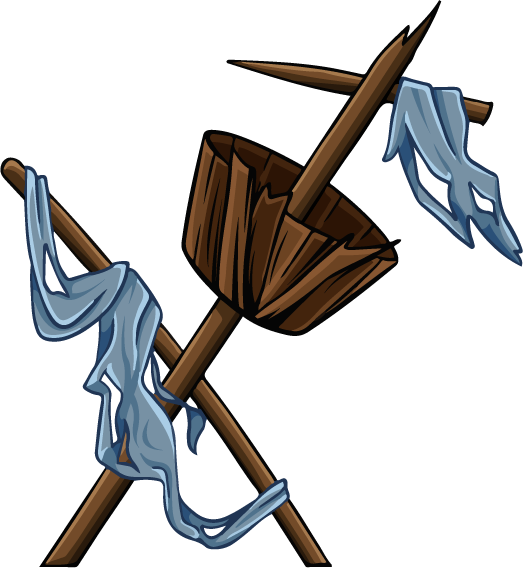
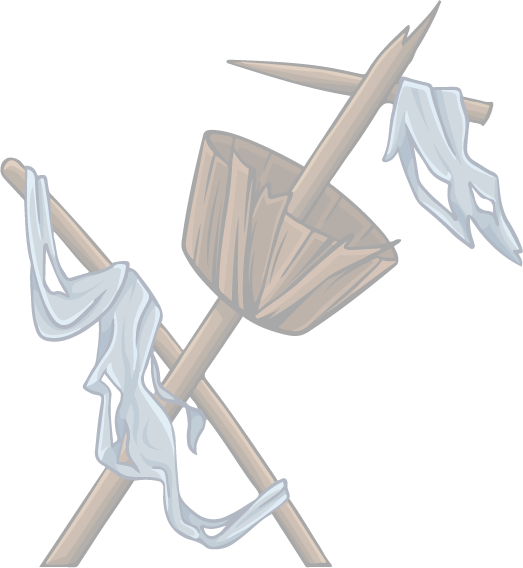
background added

diff --git a/Underwater.js b/Underwater.js
@@ -60,7 +60,7 @@ class UWTracker{
         }
 
         this.obstiChance = this.game.hooked ? 13 : 14;
-
+        this.backchance = this.game.hooked ? 25 : 50;
 
         if(spawn == 800)
             this.rand = Math.floor(Math.random()*Math.ceil(2000));
@@ -73,6 +73,9 @@ class UWTracker{
         }
         else if(this.rand >=13 && this.rand <= this.obstiChance){
             stuff.push(this.getRandomObstical());
+        }
+        else if(this.rand < this.backchance){
+            stuff.push(this.getRandomBackground());
         }
 
         for(let i = 0; i < stuff.length; i++){
@@ -100,30 +103,55 @@ class UWTracker{
 
     // returns a random fish based on depth
     getRandomFish(){
-        if(Math.floor(Math.random()*(depth/0.5)%20 >=10))
+        if(Math.random()*(depth/0.5)%20 >=10)
             return new Fish(this.game,Math.floor(Math.random()*800),depth,"./Assets/Fish/2.png","./Assets/Fish/2R.png",16,12);
-        if(Math.floor(Math.random()*(depth)%15 >=10))
+        else if(Math.random()*(depth)%15 >=10)
             return new Fish(this.game,Math.floor(Math.random()*800),depth,"./Assets/Fish/7.png","./Assets/Fish/7R.png",30,12);
-        else if(Math.floor(Math.random()*(depth/15)%15 >=10))
+        else if(Math.random()*(depth/15)%15 >=10)
             return new Fish(this.game,Math.floor(Math.random()*800),depth,"./Assets/Fish/5.png","./Assets/Fish/5R.png",28,24);
-        else if(Math.floor(Math.random()*(depth/10)%15 >=10))
+        else if(Math.random()*(depth/10)%15 >=10)
             return new Fish(this.game,Math.floor(Math.random()*800),depth,"./Assets/Fish/8.png","./Assets/Fish/8R.png",30,11);
-        else if(Math.floor(Math.random()*(depth/5)%15 >=10))
+        else if(Math.random()*(depth/5)%15 >=10)
             return new Fish(this.game,Math.floor(Math.random()*800),depth,"./Assets/Fish/6.png","./Assets/Fish/6R.png",54,22);
-        else if(Math.floor(Math.random()*(depth/2)%15 >=10))
+        else if(Math.random()*(depth/2)%15 >=10)
             return new Fish(this.game,Math.floor(Math.random()*800),depth,"./Assets/Fish/3.png","./Assets/Fish/3R.png",20,12);
-        else if(Math.floor(Math.random()*(depth/2)%15 >=10))
+        else if(Math.random()*(depth/2)%15 >=10)
             return new Fish(this.game,Math.floor(Math.random()*800),depth,"./Assets/Fish/4.png","./Assets/Fish/4R.png",26,12);
         else
             return new Fish(this.game,Math.floor(Math.random()*800),depth,"./Assets/Fish/1.png","./Assets/Fish/1R.png",12,6);
     }
 
     getRandomObstical(){
-        if(Math.floor(Math.random()*10 <= 5))
-            return new Obstical(this.game,Math.floor(Math.random()*700),this.game.hooked ? -100 : 800,"./Assets/Obsticals/Bomb.png",75,75, this.game.hooked ? -2 : -1) ;
+        if(Math.random()*10 <= 5)
+            return new Obstical(this.game,Math.floor(Math.random()*700),this.game.hooked ? -100 : 800,"./Assets/Obsticals/Bomb.png",75,75, this.game.hooked ? -2 : -1);
         else
-            return new Obstical(this.game,Math.floor(Math.random()*700),this.game.hooked ? 800 : -109,"./Assets/Obsticals/Anchor.png",75,192,3) ;
+            return new Obstical(this.game,Math.floor(Math.random()*700),this.game.hooked ? 800 : -109,"./Assets/Obsticals/Anchor.png",75,192,3);
                                    
+    }
+
+    getRandomBackground(){
+        
+        if(Math.random()*100 <= 2)
+            return new Background(this.game,Math.floor(Math.random()*700),this.game.hooked ? -100 : 800,"./Assets/Background/Mast.png",200,200);
+        else if(Math.random()*100 <= 22)
+            return new Background(this.game,Math.floor(Math.random()*700),this.game.hooked ? -100 : 800,"./Assets/Background/Seaweed_1.png",200,200);
+        else if(Math.random()*100 <= 40)
+            return new Background(this.game,Math.floor(Math.random()*700),this.game.hooked ? -100 : 800,"./Assets/Background/Seaweed_2.png",200,200);
+        else if(Math.random()*100 <= 45)
+            return new Background(this.game,Math.floor(Math.random()*700),this.game.hooked ? -100 : 800,"./Assets/Background/Steering-wheel.png",200,200);
+        else if (Math.random()*100 <= 50)
+            return new Background(this.game,Math.floor(Math.random()*700),this.game.hooked ? -100 : 800,"./Assets/Background/Stone_1.png",200,200);
+        else if (Math.random()*100 <= 60)
+            return new Background(this.game,Math.floor(Math.random()*700),this.game.hooked ? -100 : 800,"./Assets/Background/Stone_2.png",200,200);
+        else if (Math.random()*100 <= 70)
+            return new Background(this.game,Math.floor(Math.random()*700),this.game.hooked ? -100 : 800,"./Assets/Background/Stone_3.png",200,200);
+        else if (Math.random()*100 <= 80)
+            return new Background(this.game,Math.floor(Math.random()*700),this.game.hooked ? -100 : 800,"./Assets/Background/Stone_4.png",200,200);
+        else if (Math.random()*100 <= 90)
+            return new Background(this.game,Math.floor(Math.random()*700),this.game.hooked ? -100 : 800,"./Assets/Background/Stone_5.png",200,200);
+        else
+            return new Background(this.game,Math.floor(Math.random()*700),this.game.hooked ? -100 : 800,"./Assets/Background/Stone_6.png",200,200);
+        
     }
 
 
@@ -163,6 +191,25 @@ class Obstical{
     }
 
 
+}
+
+class Background {
+    constructor(game,x,y,picture,width,height){
+        Object.assign(this,{game,x,y,width,height});
+        this.pic = ASSET_MANAGER.getAsset(picture);
+        this.initial = this.y;
+        this.BB = new BouncingBox(-100,-100,0,0);
+        
+    }
+
+    update(){
+        this.game.hooked ? this.y += SPEED * 5 : this.y -= 2 *SPEED;
+        
+    }
+
+    draw(ctx){
+        ctx.drawImage(this.pic,this.x,this.y,this.width,this.height);
+    }
 }
 
 class Fish {

diff --git a/main.js b/main.js
@@ -33,6 +33,17 @@ ASSET_MANAGER.queueDownload("./Assets/Fish/8R.png");
 ASSET_MANAGER.queueDownload("./Assets/Obsticals/Bomb.png");
 ASSET_MANAGER.queueDownload("./Assets/Obsticals/Anchor.png");
 
+ASSET_MANAGER.queueDownload("./Assets/Background/Mast.png");
+ASSET_MANAGER.queueDownload("./Assets/Background/Seaweed_1.png");
+ASSET_MANAGER.queueDownload("./Assets/Background/Seaweed_2.png");
+ASSET_MANAGER.queueDownload("./Assets/Background/Steering-wheel.png");
+ASSET_MANAGER.queueDownload("./Assets/Background/Stone_1.png");
+ASSET_MANAGER.queueDownload("./Assets/Background/Stone_2.png");
+ASSET_MANAGER.queueDownload("./Assets/Background/Stone_3.png");
+ASSET_MANAGER.queueDownload("./Assets/Background/Stone_4.png");
+ASSET_MANAGER.queueDownload("./Assets/Background/Stone_5.png");
+ASSET_MANAGER.queueDownload("./Assets/Background/Stone_6.png");
+
 ASSET_MANAGER.queueDownload("./Assets/Audio/bk_music.mp3");
 ASSET_MANAGER.queueDownload("./Assets/Audio/underwater.mp3");
 ASSET_MANAGER.queueDownload("./Assets/Audio/reel.mp3");

diff --git a/index.html b/index.html
@@ -27,7 +27,7 @@
         <br><br>
         <input type="checkbox" id="debug"> Debug <br/>
         <input type="checkbox" id="mute" checked="true"> Mute <br/>
-        <input type="range" id="volume" min="0" max="1" value="0.1" step="0.05"> Volume <br/>
+        <input type="range" id="volume" min="0" max="1" value="0.5" step="0.05"> Volume <br/>
     </h1>
 
     
